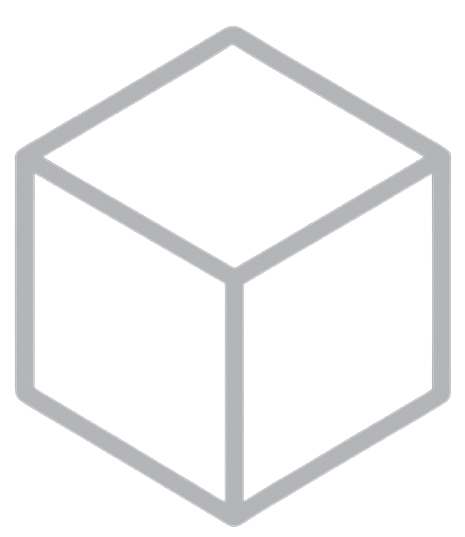
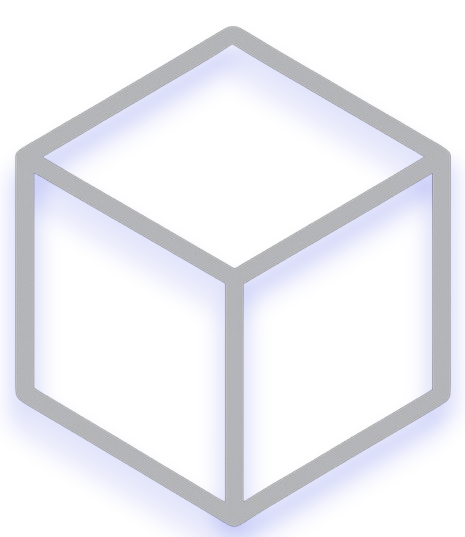
shadow and font improvements to home and smart contracts page

Changed region(s): [[0.0602, 0.0894, 0.9333, 0.5959], [0.0301, 0.7449, 0.9935, 1.0], [0.9634, 0.3277, 0.9935, 0.3575]]

diff --git a/frontend/src/components/home/HomeHeroSection.tsx b/frontend/src/components/home/HomeHeroSection.tsx
@@ -1,22 +1,96 @@
-"use client"
+"use client";
 
 import React from "react";
 import Image from "next/image";
-import hash from "../../../public/images/hash.png"
-import block from "../../../public/images/block.png"
-import blockchain from "../../../public/images/blockchain.png"
+import hashImg from "../../../public/images/hash.png";
+import blockImg from "../../../public/images/block.png";
+import blockchainImg from "../../../public/images/blockchain.png";
 
 export const HomeHeroSection: React.FC = () => (
-  <section className="bg-white pt-20">
-    <div className="py-8 px-4 mx-auto max-w-screen-xl lg:py-20">
-      <div className="bg-gray-100 border border-gray-200 rounded-lg p-8 md:p-12 mb-8">
-
-        <h1 className="text-black text-3xl md:text-5xl font-extrabold mb-4">
+  <section className="bg-gradient-to-b from-indigo-50 to-white py-20 mt-10">
+    <div className="container mx-auto px-4 lg:px-8 max-w-screen-lg">
+      <div className="bg-white rounded-2xl p-8 md:p-12 shadow-md shadow-indigo-200 mb-4">
+        <h1 className="text-3xl font-semibold md:text-5xl text-gray-900 mb-4">
           Blockchain Demonstrator
         </h1>
-        <h2 className="text-2xl font-normal text-black mb-2">
-          Below are visual demonstrations that help explain how blockchain technology works behind the scenes.
+        <h2 className="text-xl md:text-2xl text-gray-700 leading-relaxed">
+          This page contains visual demonstrations that help explain how blockchain
+          technology works behind the scenes.
         </h2>
+      </div>
+
+      <div className="flex justify-center items-center mb-5">
+      <h3 className="text-lg font-medium md:text-xl text-gray-700 leading-relaxed">
+          This includes:
+      </h3>
+      </div>
+
+      <div className="grid grid-cols-1 sm:grid-cols-2 lg:grid-cols-3 gap-8">
+        <div className="bg-white rounded-2xl overflow-hidden shadow-lg shadow-indigo-200 hover:shadow-xl transition-shadow duration-200">
+          <div className="flex justify-center items-center relative w-full h-48 pt-10">
+            <Image
+              src={hashImg}
+              alt="Hash Function Illustration"
+              width={220}
+              height={220}
+              className="object-cover"
+            />
+          </div>
+          <div className="p-6">
+            <h3 className="text-xl font-semibold text-gray-900 mb-2">
+              Hash Function
+            </h3>
+            <p className="text-gray-600 leading-relaxed">
+              See how input data is transformed into a fixed-size hash. This
+              ensures data integrity—any change to the input produces a
+              completely different output.
+            </p>
+          </div>
+        </div>
+
+        <div className="bg-white rounded-2xl overflow-hidden shadow-lg shadow-indigo-200 hover:shadow-xl transition-shadow duration-200">
+          <div className="flex items-center justify-center relative w-full h-48">
+            <Image
+              src={blockImg}
+              alt="Block Structure Illustration"
+              width={150}
+              height={150}
+              className="object-cover"
+            />
+          </div>
+          <div className="p-6">
+            <h3 className="text-xl font-semibold text-gray-900 mb-2">
+              Block Structure
+            </h3>
+            <p className="text-gray-600 leading-relaxed">
+              Explore how transactions, timestamp, and previous hash are
+              packaged into a block. Each block links to the prior one, forming
+              an immutable chain.
+            </p>
+          </div>
+        </div>
+
+        <div className="bg-white rounded-2xl overflow-hidden shadow-lg shadow-indigo-200 hover:shadow-xl transition-shadow duration-200">
+          <div className="flex items-center justify-center relative w-full h-48">
+            <Image
+              src={blockchainImg}
+              width={400}
+              height={400}
+              alt="Blockchain Linking Illustration"
+              className="object-cover"
+            />
+          </div>
+          <div className="p-6">
+            <h3 className="text-xl font-semibold text-gray-900 mb-2">
+              Chain Linking
+            </h3>
+            <p className="text-gray-600 leading-relaxed">
+              Visualize how blocks connect through hashes. This chaining
+              mechanism prevents tampering—altering one block invalidates all
+              subsequent blocks.
+            </p>
+          </div>
+        </div>
       </div>
     </div>
   </section>

diff --git a/frontend/src/components/smart-contracts/SupplyChainTimeline.tsx b/frontend/src/components/smart-contracts/SupplyChainTimeline.tsx
@@ -16,16 +16,15 @@ export default function SupplyChainTimeline({ onSuccess }: SupplyChainTimelinePr
   return (
     <div className="flex flex-col items-center min-h-screen w-full px-4 py-12 mt-5 rounded-2xl">
       <div className="w-full max-w-3xl flex items-center justify-between mb-8">
-        <h2 className="text-3xl font-extrabold text-gray-900">
+        <h2 className="text-3xl font-semibold text-gray-900">
           Supply Chain Management
         </h2>
         <ConnectButton accountStatus={{ smallScreen: "avatar", largeScreen: "full" }} />
       </div>
 
       <div className="w-full max-w-3xl bg-white rounded-xl shadow-xl border border-gray-200 overflow-hidden">
-        {/* Intro */}
         <div className="px-8 py-6 bg-gray-50">
-          <p className="text-lg text-gray-700 leading-relaxed">
+          <p className="text-lg font-light text-gray-700 leading-relaxed">
             This simulation shows how smart contracts can automate logistics,
             reduce human error, and build trust in critical operations like
             pharmaceutical delivery. Follow each step below to interact with the
@@ -33,7 +32,6 @@ export default function SupplyChainTimeline({ onSuccess }: SupplyChainTimelinePr
           </p>
         </div>
 
-        {/* Steps */}
         <div className="px-8 py-8">
           <ol className="flex flex-col space-y-10">
             <li className="relative flex flex-col sm:flex-row items-start sm:items-center">
@@ -44,10 +42,10 @@ export default function SupplyChainTimeline({ onSuccess }: SupplyChainTimelinePr
               </div>
               <span className="hidden sm:block absolute left-7 top-16 bottom-0 w-px bg-gray-200" />
               <div className="mt-4 sm:mt-0 sm:ml-8 flex-1">
-                <h3 className="text-xl font-semibold text-gray-900 mb-2">
+                <h3 className="text-xl font-medium text-gray-900 mb-2">
                   Create Shipment
                 </h3>
-                <p className="text-base text-gray-600 mb-2">
+                <p className="text-base font-light text-gray-600 mb-2">
                   Register a new vaccine batch on-chain: batch ID, drug type,
                   and destination—creating a permanent, traceable record.
                 </p>
@@ -63,10 +61,10 @@ export default function SupplyChainTimeline({ onSuccess }: SupplyChainTimelinePr
               </div>
               <span className="hidden sm:block absolute left-7 top-16 bottom-0 w-px bg-gray-200" />
               <div className="mt-4 sm:mt-0 sm:ml-8 flex-1">
-                <h3 className="text-xl font-semibold text-gray-900 mb-2">
+                <h3 className="text-xl font-medium text-gray-900 mb-2">
                   Start Shipment
                 </h3>
-                <p className="text-base text-gray-600 mb-2">
+                <p className="text-base font-light text-gray-600 mb-2">
                   The shipment leaves the manufacturing facility. Status
                   changes to “In Transit,” with tracking data logged on-chain.
                 </p>
@@ -81,10 +79,10 @@ export default function SupplyChainTimeline({ onSuccess }: SupplyChainTimelinePr
                 </div>
               </div>
               <div className="mt-4 sm:mt-0 sm:ml-8 flex-1">
-                <h3 className="text-xl font-semibold text-gray-900 mb-2">
+                <h3 className="text-xl font-medium text-gray-900 mb-2">
                   Complete Shipment
                 </h3>
-                <p className="text-base text-gray-600 mb-2">
+                <p className="text-base font-light text-gray-600 mb-2">
                   The shipment arrives at its destination (hospital or pharmacy),
                   logging arrival to ensure full transparency.
                 </p>

diff --git a/frontend/src/components/smart-contracts/SmartContractsHeroSection.tsx b/frontend/src/components/smart-contracts/SmartContractsHeroSection.tsx
@@ -4,17 +4,17 @@ import React from "react";
 import { AiOutlineCheck } from "react-icons/ai";
 
 export const SmartContractsHeroSection: React.FC = () => (
-  <section className="bg-gradient-to-r from-indigo-50 to-white py-20 mt-10">
+  <section className="bg-gradient-to-b from-indigo-50 to-white py-20 mt-10">
     <div className="container mx-auto px-4 lg:px-8 max-w-screen-xl">
       <div className="grid grid-cols-1 md:grid-cols-2 gap-12 items-center">
-        <div className="bg-white border border-gray-200 rounded-2xl p-8 md:p-12 shadow-lg">
-          <h1 className="text-4xl md:text-5xl font-extrabold text-gray-900 mb-4">
+        <div className="bg-white border border-gray-200 shadow-lg shadow-indigo-200 rounded-2xl p-8 md:p-12">
+          <h1 className="text-4xl md:text-5xl font-semibold text-gray-900 mb-4">
             Smart Contracts
           </h1>
-          <h2 className="text-2xl md:text-3xl font-medium text-gray-800 mb-6 leading-snug">
+          <h2 className="text-xl md:text-2xl font-light text-gray-800 mb-6 leading-snug">
             Digital agreements that run themselves—securely, automatically, and without middlemen.
           </h2>
-          <p className="text-lg text-gray-600 leading-relaxed">
+          <p className="text-lg text-gray-600 font-light leading-relaxed">
             Platforms like Ethereum let businesses automate complex processes with full transparency and trust,
             removing guesswork and manual reconciliation.
           </p>
@@ -29,7 +29,7 @@ export const SmartContractsHeroSection: React.FC = () => (
         </div>
 
         <div className="space-y-6">
-          <h2 className="text-2xl md:text-3xl font-bold text-gray-900 mb-4">
+          <h2 className="text-2xl md:text-3xl font-medium text-gray-900 mb-4">
             Business Benefits
           </h2>
           <ul className="space-y-4">
@@ -43,7 +43,7 @@ export const SmartContractsHeroSection: React.FC = () => (
             ].map((item, idx) => (
               <li key={idx} className="flex items-start">
                 <AiOutlineCheck className="flex-shrink-0 mt-1 text-indigo-600 text-xl" />
-                <span className="ml-3 text-lg text-gray-700 leading-relaxed">
+                <span className="ml-3 text-lg text-gray-800 font-light leading-relaxed">
                   {item}
                 </span>
               </li>
@@ -53,7 +53,7 @@ export const SmartContractsHeroSection: React.FC = () => (
       </div>
 
       <div className="mt-16 flex justify-center">
-        <h2 className="text-xl md:text-2xl text-center text-gray-800 leading-relaxed max-w-2xl">
+        <h2 className="text-xl font-light md:text-2xl text-center text-gray-800 leading-relaxed max-w-2xl">
           Below is an example of how a smart contract can automate key steps in a supply chain{" "}
           <span className="italic">(in a real-world scenario, these actions would be triggered automatically)</span>.
         </h2>

diff --git a/frontend/src/components/smart-contracts/CriticalSmartContracts.tsx b/frontend/src/components/smart-contracts/CriticalSmartContracts.tsx
@@ -40,8 +40,8 @@ export default function CriticalSmartContract() {
   const goToNext = () => setCurrentPage((p) => Math.min(pages.length - 1, p + 1));
 
   return (
-    <div className="flex flex-col justify-center items-center min-h-screen w-full bg-gradient-to-b from-gray-50 to-gray-100 px-4 py-8">
-      <h2 className="text-3xl font-extrabold text-gray-900 mb-8">
+    <div className="flex flex-col justify-center items-center min-h-screen w-full bg-gradient-to-b from-gray-50 to-gray-100 px-4 py-20">
+      <h2 className="text-3xl font-semibold text-gray-900 mb-8">
         Smart contracts: a critical perspective
       </h2>
 
@@ -73,11 +73,11 @@ export default function CriticalSmartContract() {
             exit={{ opacity: 0, y: -10 }}
             transition={{ duration: 0.3 }}
           >
-            <h3 className="text-2xl font-semibold text-center text-gray-900 mb-6">
+            <h3 className="text-2xl font-medium text-center text-gray-900 mb-6">
               {pages[currentPage].title}
             </h3>
 
-            <ul className="text-lg text-gray-700 leading-relaxed mb-8 list-disc pl-6 space-y-4 lg:columns-2 lg:gap-x-8">
+            <ul className="text-lg font-light text-gray-700 leading-relaxed mb-8 list-disc pl-6 space-y-4 lg:columns-2 lg:gap-x-8">
               {pages[currentPage].points.map((point, idx) => (
                 <li key={idx}>{point}</li>
               ))}

diff --git a/frontend/src/components/home/BlockSection.tsx b/frontend/src/components/home/BlockSection.tsx
@@ -10,7 +10,7 @@ export const BlockSection: React.FC = () => {
         <div className="grid grid-cols-1 md:grid-cols-3 gap-8">
           
           <div className="md:col-span-2 bg-gray-50 border border-gray-200 rounded-3xl p-8 md:p-12 space-y-5">
-            <h1 className="text-black text-3xl md:text-5xl font-extrabold mb-2">
+            <h1 className="text-black text-3xl md:text-5xl font-semibold mb-2">
               Block
             </h1>
             <BlockDemo />
@@ -18,7 +18,7 @@ export const BlockSection: React.FC = () => {
           </div>
           
           <div className="text-gray-700">
-            <h2 className="text-2xl font-bold mb-4">Key Concepts</h2>
+            <h2 className="text-2xl font-medium mb-4">Key Concepts</h2>
             <ul className="list-disc pl-5 space-y-2">
               <li>This demo shows a simplified block, including the block number, nonce, data, hash and "Mine" button.</li>
               <br />

diff --git a/frontend/src/components/home/HashSection.tsx b/frontend/src/components/home/HashSection.tsx
@@ -10,7 +10,7 @@ export const HashSection: React.FC = () => {
         <div className="grid grid-cols-1 md:grid-cols-3 gap-8">
           
           <div className="text-gray-700">
-            <h2 className="text-2xl font-bold mb-4">Key Concepts</h2>
+            <h2 className="text-2xl font-medium mb-4">Key Concepts</h2>
             <ul className="list-disc pl-5 space-y-2">
               <li>Hashing creates a unique digital fingerprint to prove that data hasn't changed.</li>
               <br />
@@ -27,7 +27,7 @@ export const HashSection: React.FC = () => {
           </div>
           
           <div className="md:col-span-2 bg-gray-50 border border-gray-200 rounded-3xl p-8 md:p-12 space-y-5">
-            <h1 className="text-black text-3xl md:text-5xl font-extrabold mb-2">
+            <h1 className="text-black text-3xl md:text-5xl font-semibold mb-2">
               Hashing
             </h1>
             <HashDemo />

diff --git a/frontend/src/components/home/BlockchainSection.tsx b/frontend/src/components/home/BlockchainSection.tsx
@@ -9,11 +9,11 @@ export const BlockchainSection: React.FC = () => {
       <div className="px-4 mx-auto max-w-screen-2xl">
         <div className="bg-gray-50 border border-gray-200 rounded-3xl p-8 md:p-12">
           
-          <h1 className="text-black text-3xl md:text-5xl font-extrabold mb-2">
+          <h1 className="text-black text-3xl md:text-5xl font-semibold mb-2">
             Blockchain
           </h1>
           <div className="text-gray-700 mb-8">
-            <h2 className="text-2xl font-bold mb-4">Key Concepts</h2>
+            <h2 className="text-2xl font-medium mb-4">Key Concepts</h2>
             <ul className="list-disc pl-5 space-y-2">
               <li>The blockchain links blocks together in a chain.</li>
               <li>There are many types of blockchains, each using different methods to mining or validate blocks.</li>

diff --git a/frontend/src/components/smart-contracts/SupplyChainTable.tsx b/frontend/src/components/smart-contracts/SupplyChainTable.tsx
@@ -22,7 +22,7 @@ export default function SupplyChainTable({ shipments }: SupplyChainTableProps) {
   return (
     <div className="w-full max-w-screen-xl bg-white rounded-xl shadow-lg border border-gray-200 overflow-hidden mb-10">
       <div className="flex items-center justify-between px-8 py-6 bg-gray-50">
-        <h2 className="text-2xl font-semibold text-gray-800">All Shipments</h2>
+        <h2 className="text-2xl font-medium text-gray-800">All Shipments</h2>
         <GetShipment />
       </div>
 
